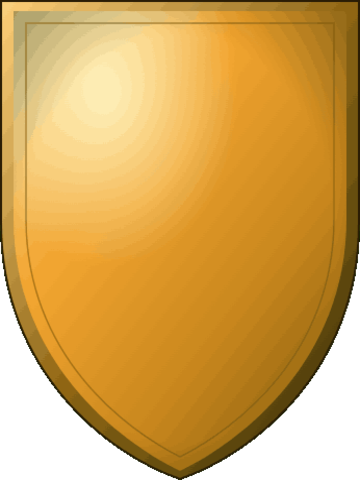
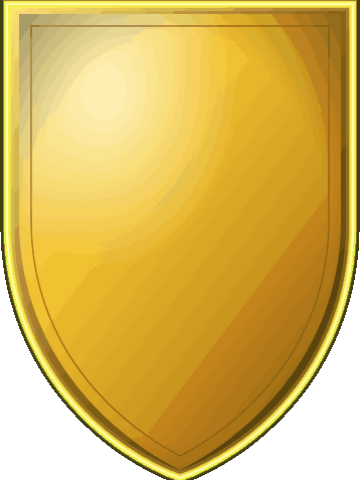
fix(view): targeted-play minions skip target picker when board has no valid targets — Brunhalt Mage et al play directly with PickedTarget=null (treated as 开幕未触发); also updated ward PNG

diff --git a/src/View/BattleController.cs b/src/View/BattleController.cs
@@ -228,6 +228,13 @@ public partial class BattleController : Node
                     }
                     if (script.PlayTarget != TargetSpec.None && _pendingTileIndex is null)
                     {
+                        // No valid targets on board → skip the target-pick sub-state and play directly.
+                        // OnPlay sees PickedTarget=null and exits early (规则：算作未触发开幕).
+                        if (!HasAnyValidTarget(script.PlayTarget))
+                        {
+                            TrySubmit(new PlayCardAction(LocalSide, _selectedHandInstance, tileIndex, null, null));
+                            return;
+                        }
                         // 还需要选 target：先把 tile 存起来，进入"等待目标"子阶段。
                         _pendingTileIndex = tileIndex;
                         _targetsNeeded = Math.Max(1, script.TargetsToPick);
@@ -577,6 +584,27 @@ public partial class BattleController : Node
         => await ToSignal(GetTree().CreateTimer(seconds), SceneTreeTimer.SignalName.Timeout);
 
     private void Rebind() => _board.Rebind(_loop.State, _registry, LocalSide);
+
+    /// <summary>
+    /// True iff the current board state contains at least one entity matching the given TargetSpec.
+    /// Used to skip the target-pick UI when a card's effect has no possible target.
+    /// </summary>
+    private bool HasAnyValidTarget(TargetSpec spec)
+    {
+        var me = _loop.State.GetPlayer(LocalSide);
+        var enemy = _loop.State.GetPlayer(LocalSide.Opponent());
+        return spec switch
+        {
+            TargetSpec.SingleAllyMinion     => me.Field.Any(t => t.Occupant is not null),
+            TargetSpec.SingleEnemyMinion    => enemy.Field.Any(t => t.Occupant is not null),
+            TargetSpec.SingleAnyMinion      => me.Field.Any(t => t.Occupant is not null)
+                                            || enemy.Field.Any(t => t.Occupant is not null),
+            TargetSpec.EmptyAllyTile        => me.Field.Any(t => t.Occupant is null),
+            TargetSpec.EmptyEnemyTile       => enemy.Field.Any(t => t.Occupant is null),
+            // Characters always include heroes — never empty.
+            _ => true,
+        };
+    }
 
     private void ResetMode()
     {
